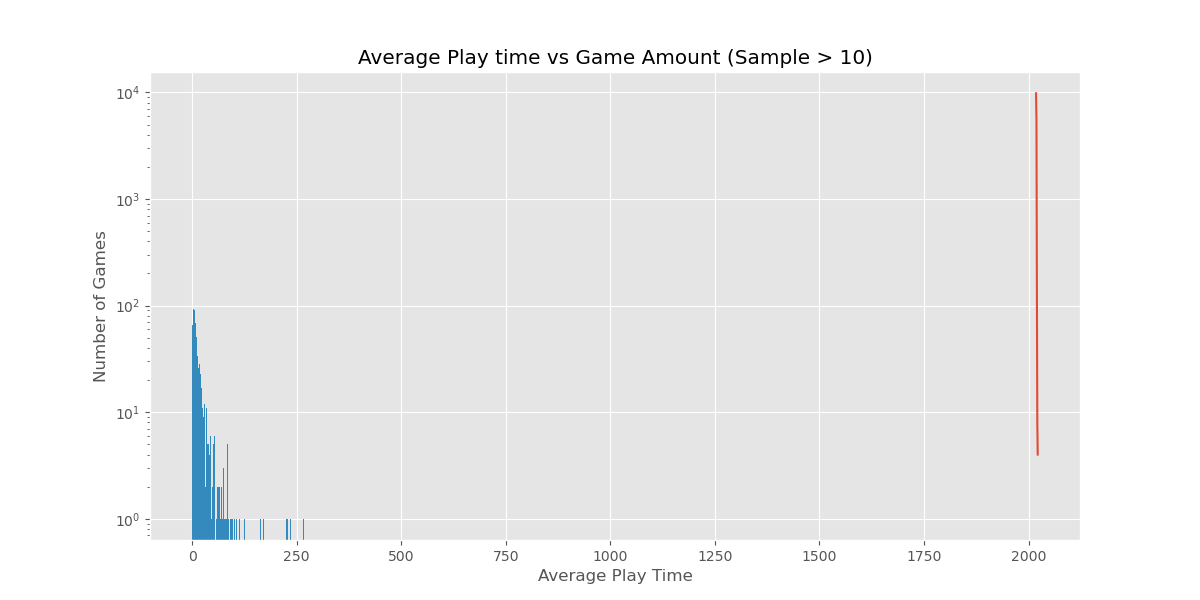
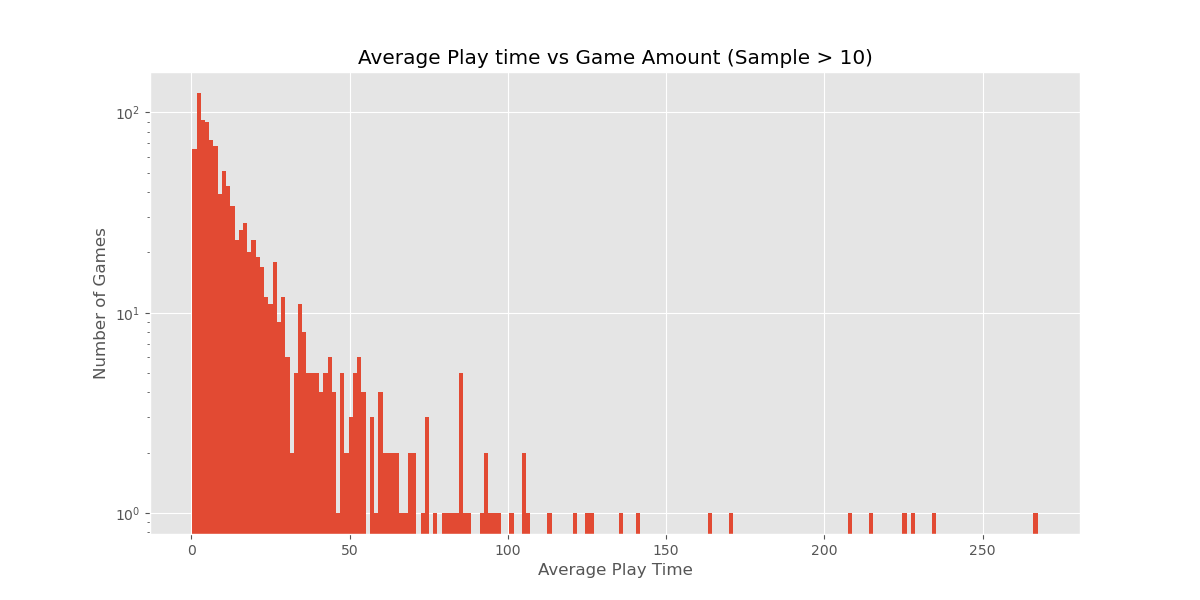
Fix plot

diff --git a/cleaning_playtime.py b/cleaning_playtime.py
@@ -2,7 +2,6 @@ import pandas as pd
 import numpy as np
 import matplotlib.pyplot as plt
 import re
-
 from scipy.stats import stats
 
 
@@ -14,30 +13,26 @@ def clean_playtime_data(df):
     # Also drop the type column as it does not contain any useful info anymore after filtering
     df_origin = df_origin.drop(['0', 'type'], axis=1)
 
-    df_origin_0_5 = df_origin[(df_origin['time'] >= 0) & (df_origin['time'] <= 5)]
-    df_origin_5_20 = df_origin[(df_origin['time'] > 5) & (df_origin['time'] <= 20)]
-    df_origin_20_100 = df_origin[(df_origin['time'] > 20) & (df_origin['time'] <= 100)]
-    df_origin_above_100 = df_origin[df_origin['time'] > 100]
-
-    # Calculate Z-score to remove outliers that is 4 std away from the mean of the data
+    # Calculate Z-score to remove outliers that are 4 std away from the mean of the data
     z_origin = stats.zscore(df_origin['time'])
     outlier_rm_data = df_origin[np.abs(z_origin) <= 4]
 
     # Group play time data on video games, and take the average of player's play time.
     df_grouped = outlier_rm_data.groupby('name')
-    group_sizes = df_origin.groupby('name').size()
+    group_sizes = outlier_rm_data.groupby('name').size()
     df_averaged = df_grouped.mean()
     df_averaged = df_averaged[group_sizes >= 10]
 
     # Plot the average play time of games
+    plt.clf()
     df_averaged['time'].plot(kind='hist', bins=200, logy=True)
     plt.title('Average Play time vs Game Amount (Sample > 10)')
     plt.xlabel('Average Play Time')
     plt.ylabel('Number of Games')
-    plt.subplots_adjust(bottom=0.1)
     plt.savefig('outputs/AvgPlaytimeOutlier.png')
 
     # Focus on the first 200 hrs
+    plt.clf()
     zoomed_df = df_averaged[df_averaged['time'] < 30]
     zoomed_df.plot(kind='hist', bins=200, logy=True)
     plt.xlabel('Average Play Time')
@@ -45,4 +40,3 @@ def clean_playtime_data(df):
     plt.title('Zoomed Plot in 200 Hours')
     plt.subplots_adjust(bottom=0.1)
     plt.savefig('outputs/ZoomedAvgPlaytimeOutlier.png')
-

diff --git a/main.py b/main.py
@@ -25,9 +25,9 @@ def main():
 
     df_cleaned = pd.read_csv("data/cleaned_steam_games.csv")
 
-    # df2_column_names = ["name", "type", "time", "0"]
-    # df2 = pd.read_csv("data/steam-200k.csv", names=df2_column_names)
-    # df2_cleaned = clean_playtime_data(df2)
+    df2_column_names = ["name", "type", "time", "0"]
+    df2 = pd.read_csv("data/steam-200k.csv", names=df2_column_names)
+    df2_cleaned = clean_playtime_data(df2)
 
 if __name__ == "__main__":
     main()
